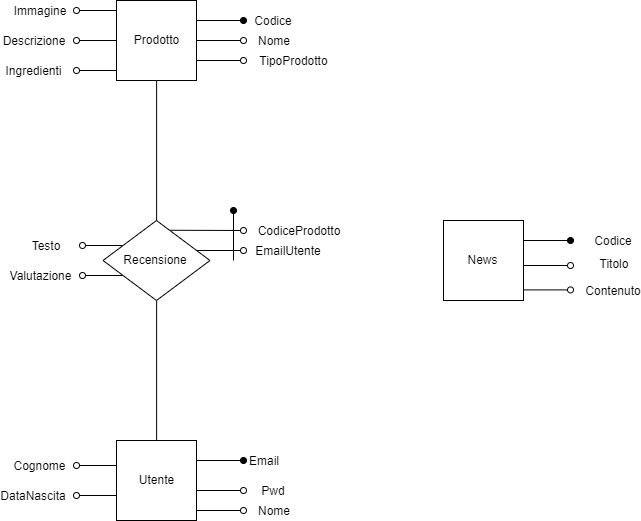
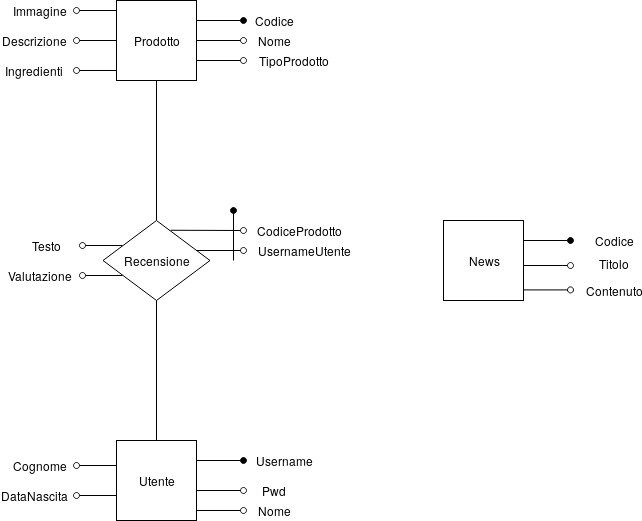
Aggiornate lunghezze e nomi database #505
Manca da aggiornare lo schema logico

diff --git a/website/www/php/backend/get_admin.php b/website/www/php/backend/get_admin.php
@@ -14,7 +14,7 @@ class Get_admin{
     }
 
     public function admin($username,$password){
-        return @mysqli_fetch_assoc($this->admin->execute("select * from Utente where Email = '$username' and Pwd = '$password'"));
+        return @mysqli_fetch_assoc($this->admin->execute("select * from Utente where Username = '$username' and Pwd = '$password'"));
     }
 
 }
